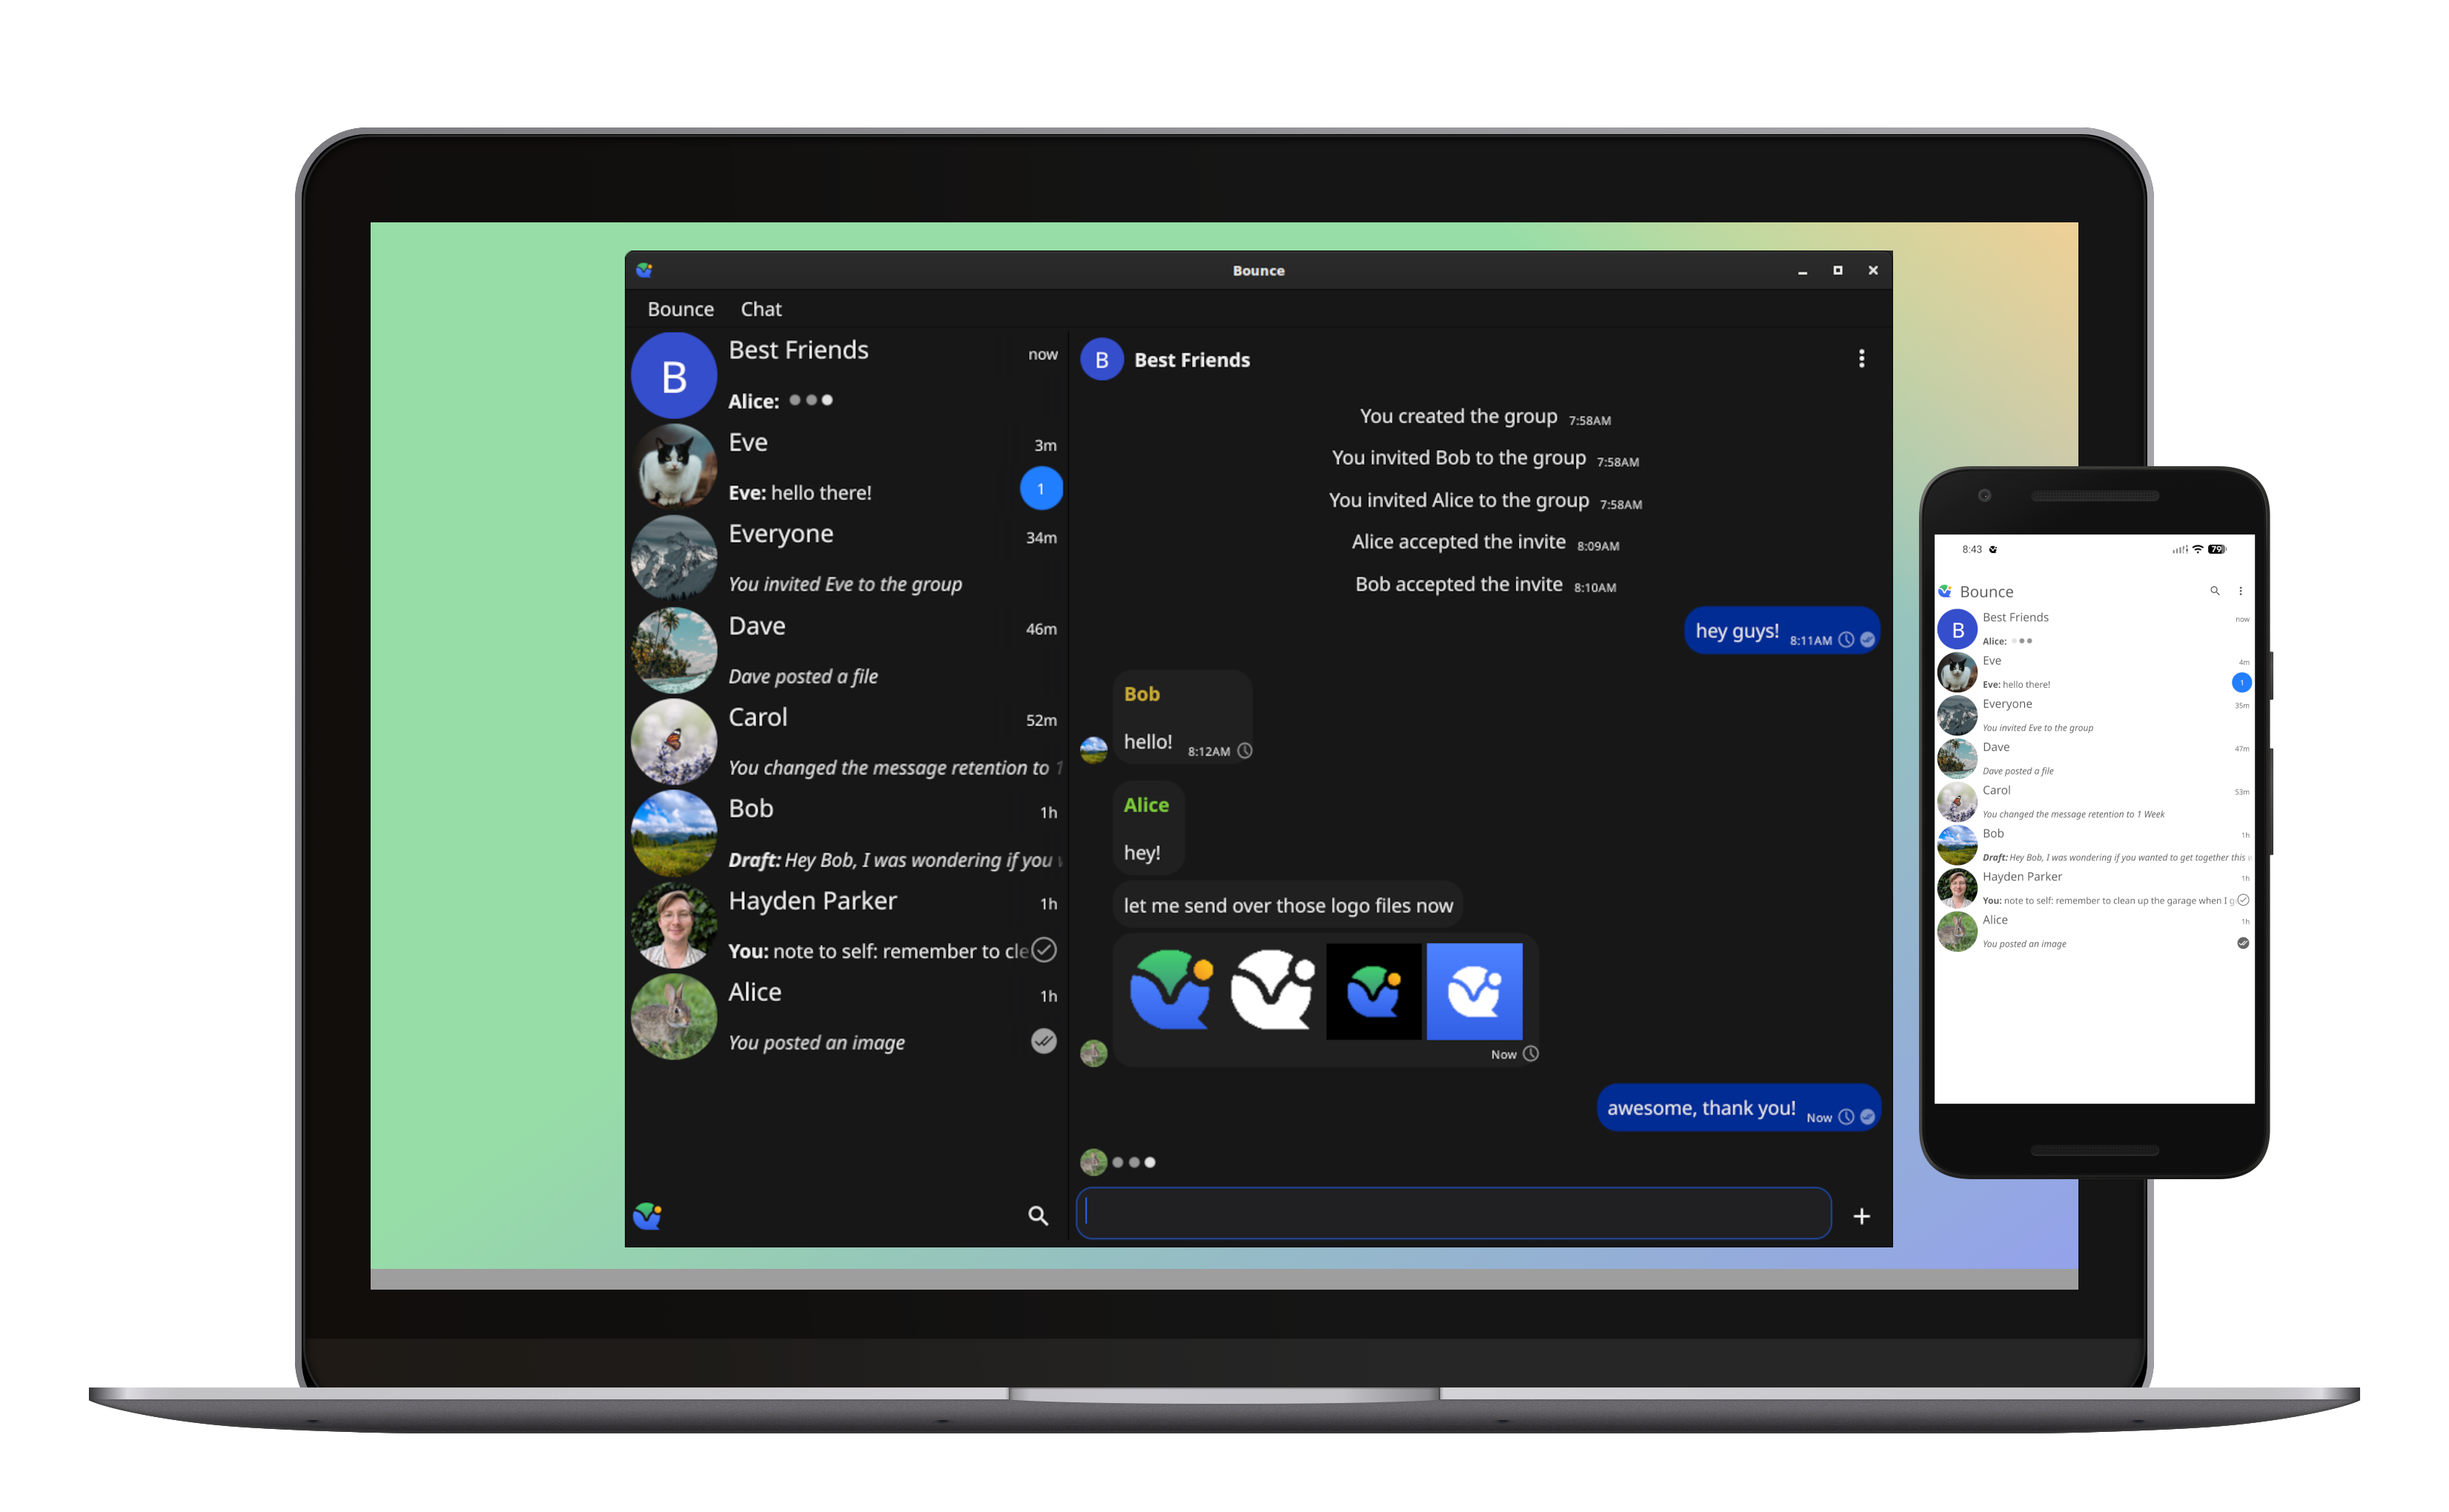
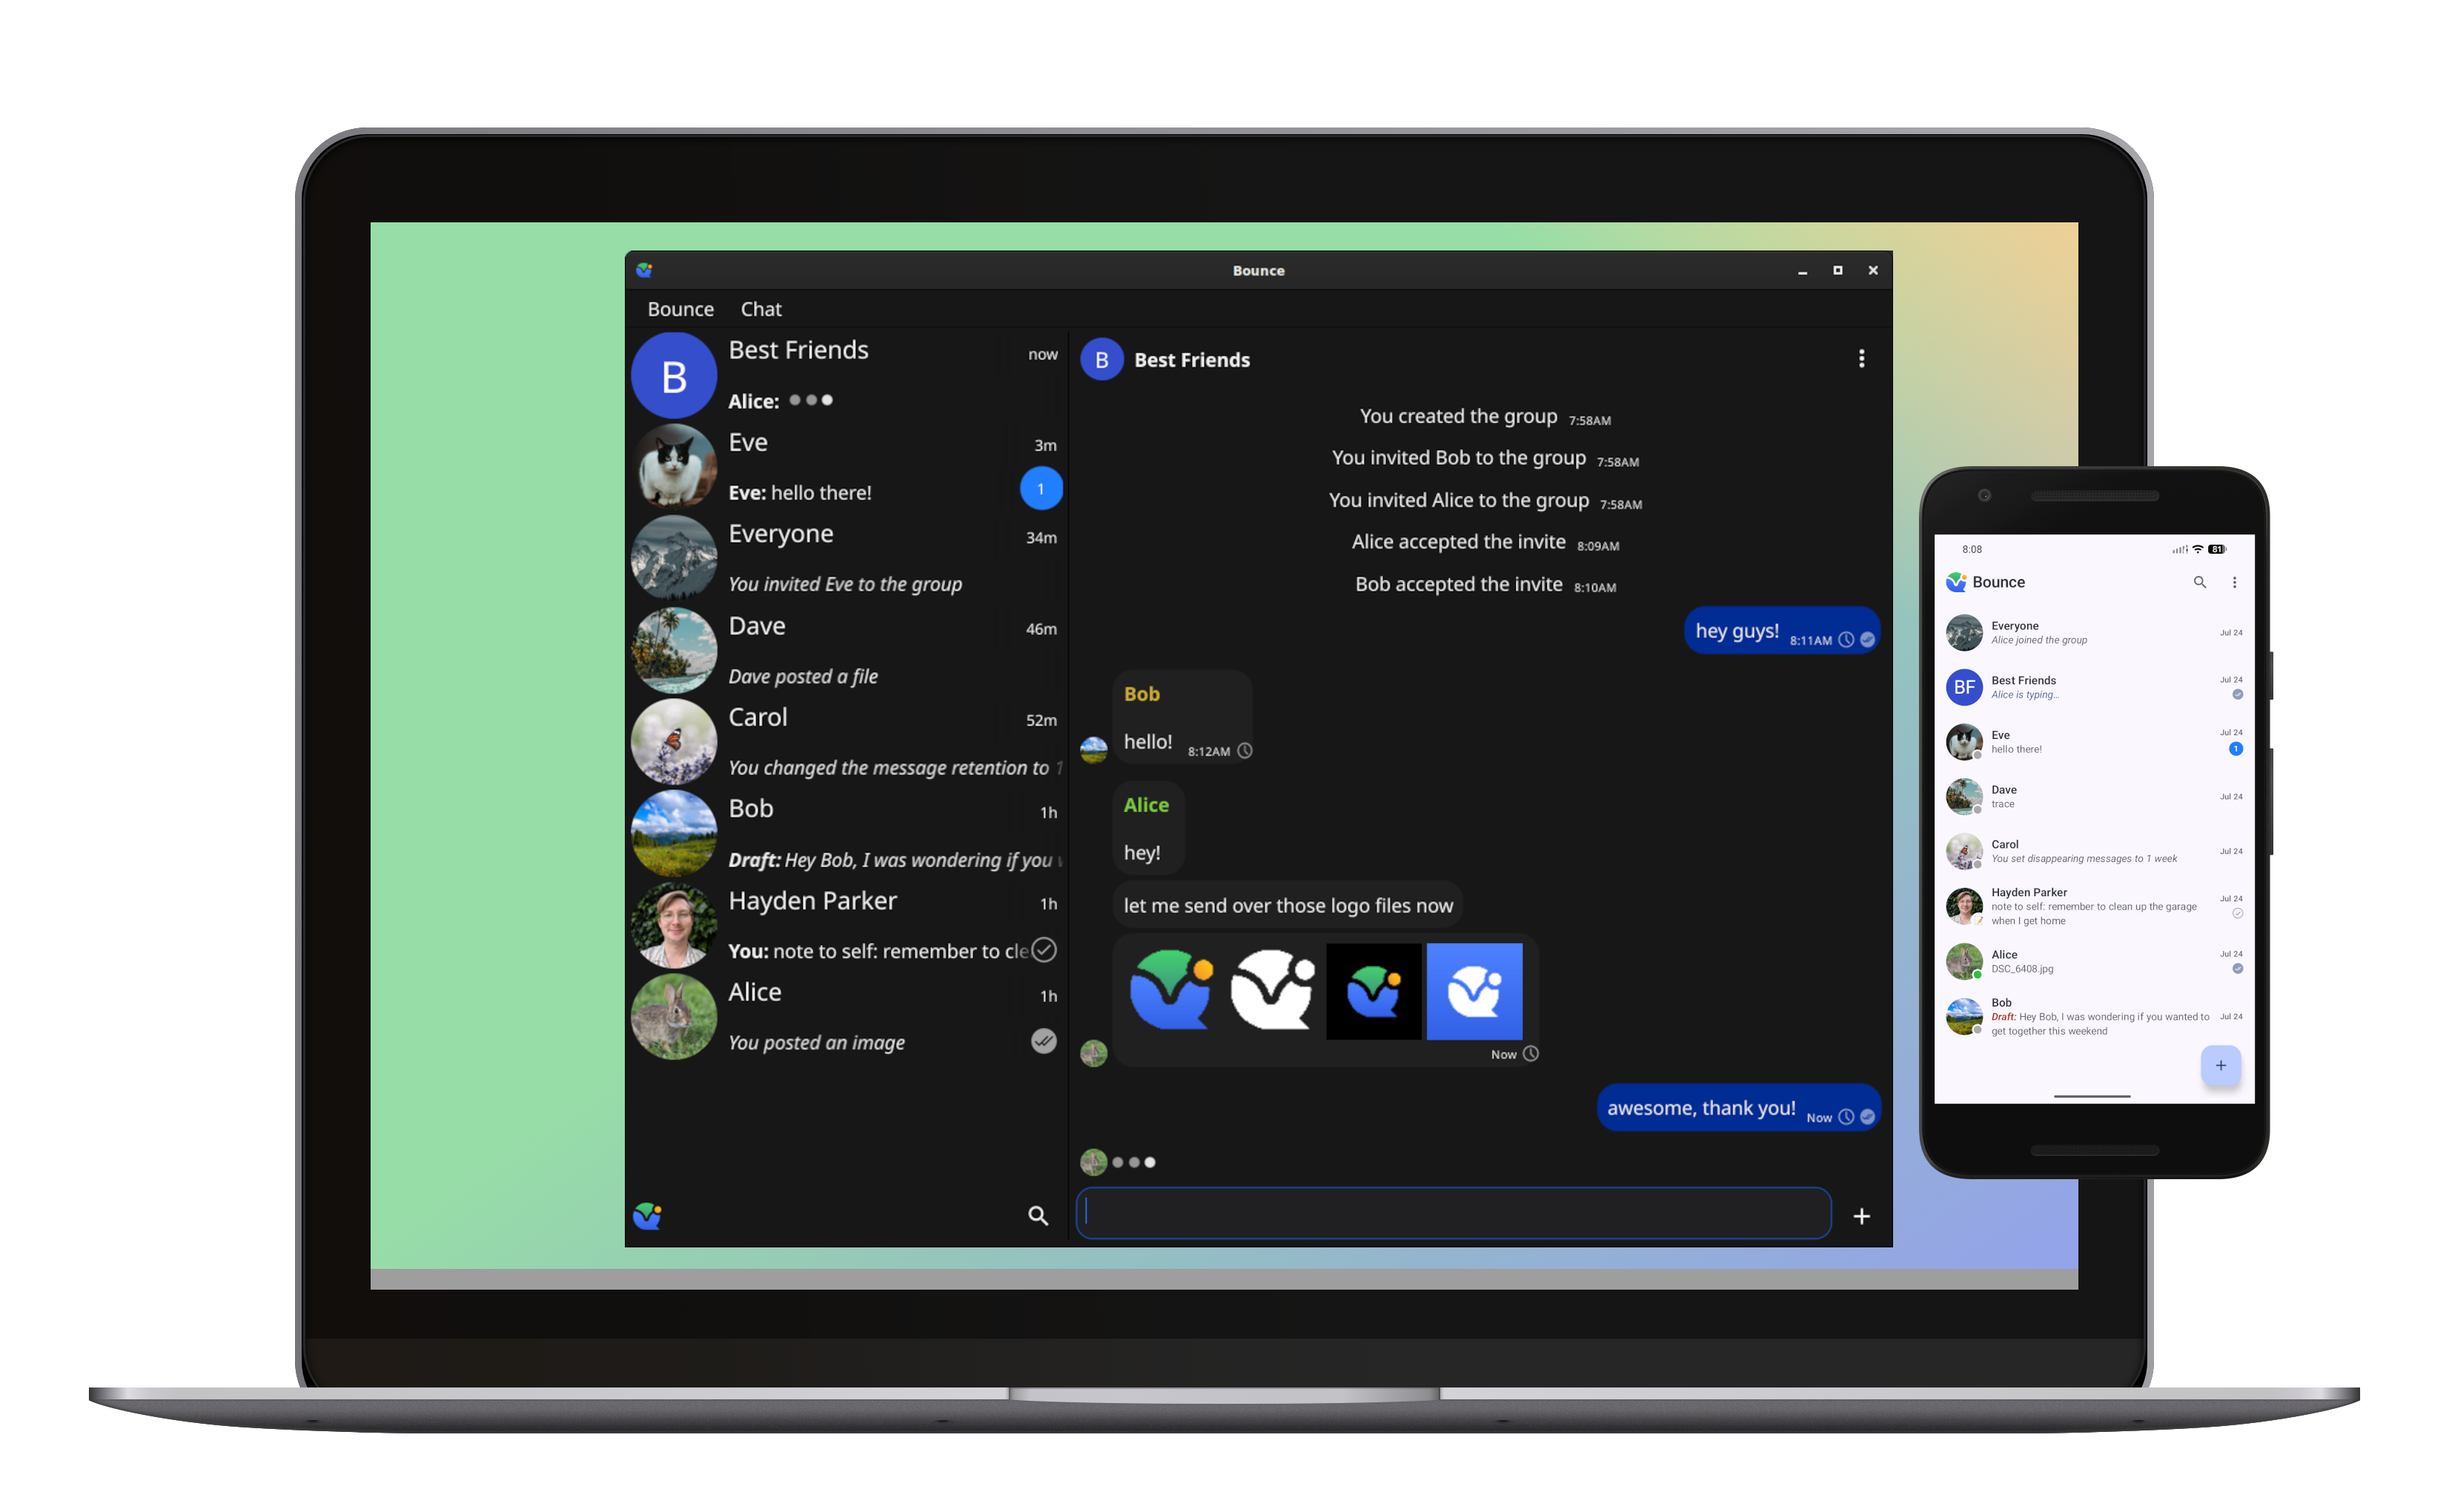
update documentation

Changed region(s): [[0.7794, 0.3706, 0.9041, 0.6794], [0.9041, 0.6794, 0.9352, 0.7412], [0.9041, 0.4324, 0.9352, 0.4632]]

diff --git a/README.md b/README.md
@@ -16,7 +16,7 @@ Bounce is a distributed group chat application that protects metadata, with a fa
 
 ## Design Overview
 
-Each instance of Bounce includes a Tor hidden service, and all connections between devices occur over Tor.  Users can own multiple devices, including encrypted devices that do not have access to the message contents.  Users add contacts by scanning a code on the other person's device, or by meeting them in a group, there is no global namespace of all users.  Messages are scoped to their user or group, and gossiped between devices that are in scope and online.  Devices coming online have an efficient way to catch up.  Group states (name, admin status, etc) can survive a bad actor attempting to mess with history, so long as the majority of users are honest.  The desktop UI is built using [Fyne](https://github.com/fyne-io/fyne).  For more details, see the [goals](docs/goals.md) and [design document](docs/design.md).
+Each instance of Bounce includes a Tor hidden service, and all connections between devices occur over Tor.  Users can own multiple devices, including encrypted devices that do not have access to the message contents.  Users add contacts by scanning a code on the other person's device, or by meeting them in a group, there is no global namespace of all users.  Messages are scoped to their user or group, and gossiped between devices that are in scope and online.  Devices coming online have an efficient way to catch up.  Group states (name, admin status, etc) can survive a bad actor attempting to mess with history, so long as the majority of users are honest.  For more details, see the [goals](docs/goals.md) and [design document](docs/design.md).
 
 ## Status
 
